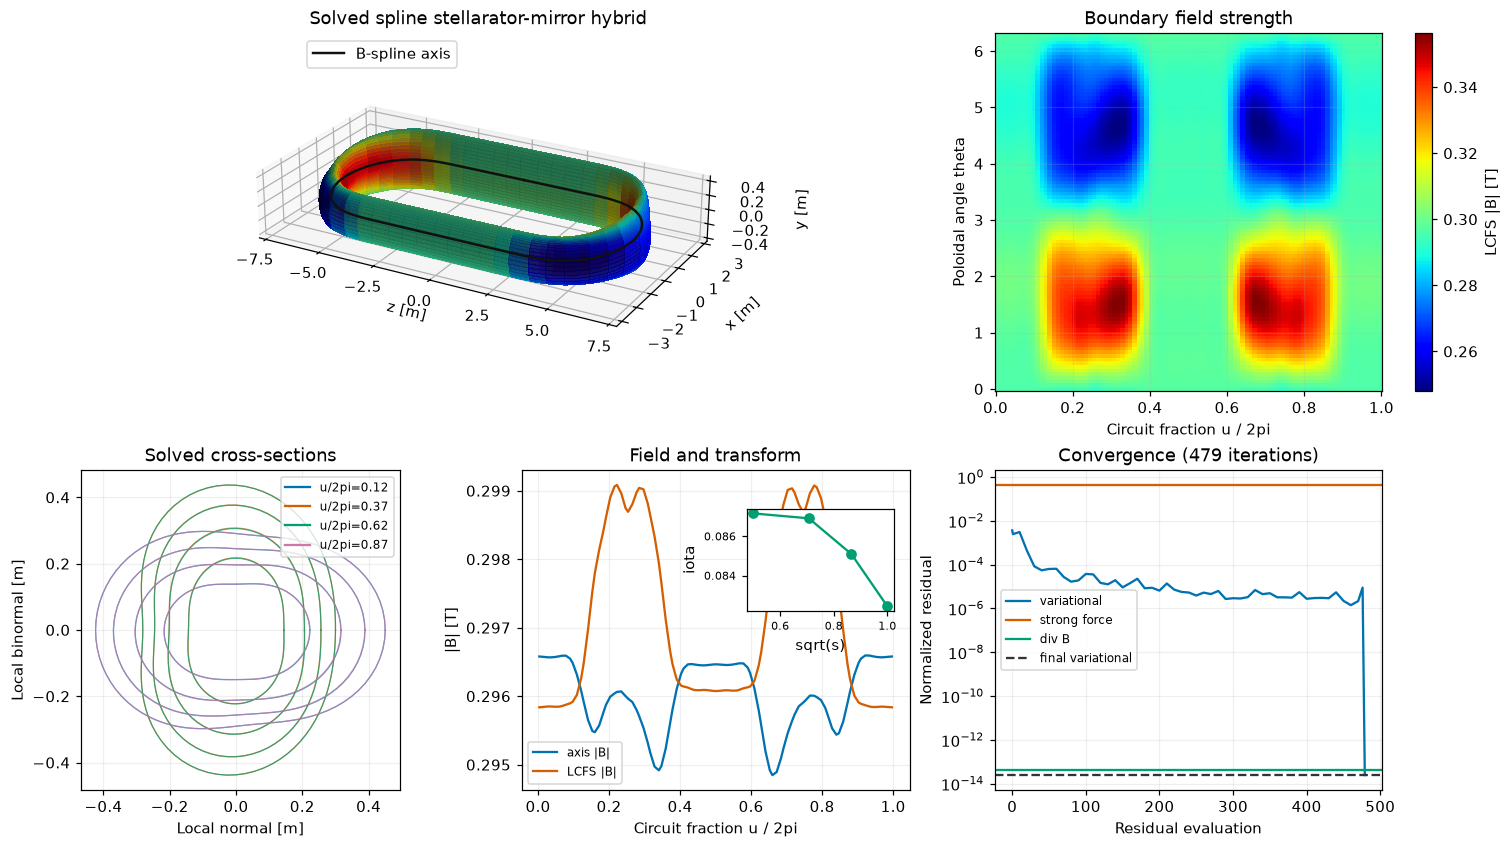
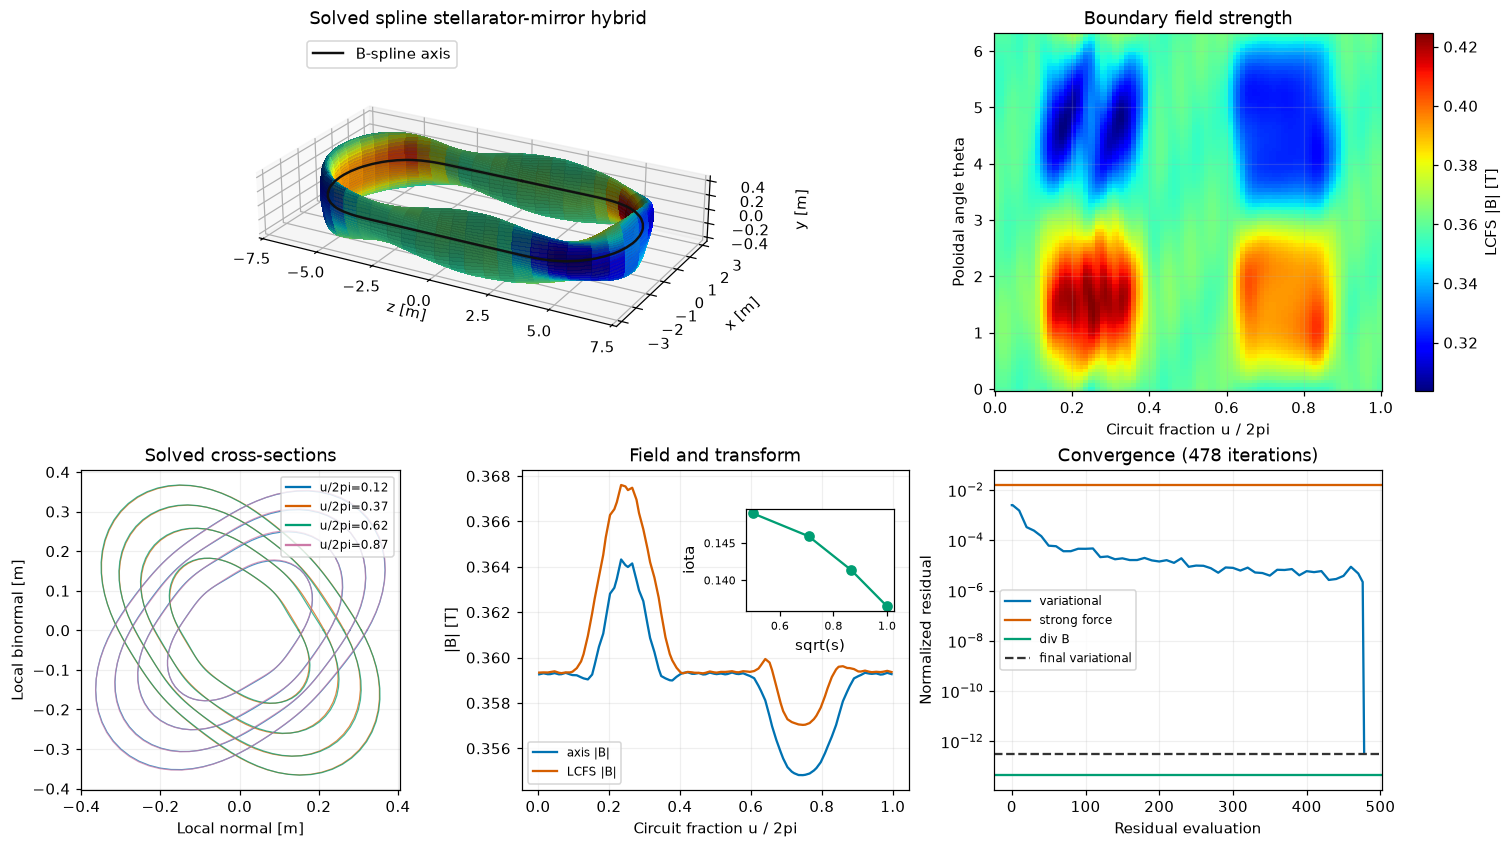
mirror: add toroidally rotating ellipse to stellarator-mirror hybrid (#56)
Add a section_turns parameter to build_stellarator_mirror_hybrid and
stellarator_mirror_section_coefficients that turns the elliptical
cross-section continuously around the closed circuit by that many full
2*pi turns, superposed on the return-only 90-degree rotation. The
integer turn count keeps the periodic section closing on itself exactly
(m=2 harmonic winds by 4*pi*section_turns) while the legs keep an
exactly straight axis. section_turns=0 (default) reproduces the prior
return-only geometry bit for bit.

Two turns lift the traced transform from the return-only iota=0.085 to
iota=0.141 at s=0.75. The rotation adds no standalone geometric
transform at the L/a~67 aspect ratio (with I'(s)=0 the traced iota stays
below 1e-3 for every section_turns); it amplifies the current-driven
transform by reshaping the metric.

Promotion: under the junction-freeze contract the toroidally rotating
hybrid converges at ftol on every 16/32/64 rung and passes the
minor-radius bulk gate (0.0445 -> 0.0056 -> 0.0046, monotone, below
0.05), but the device-normalized strong force still plateaus
(4.07 -> 0.51 -> 0.42) instead of heading to zero like the promoted
circular lane, so the near-axis representation defect persists and it
stays a research candidate. Docs, README, CHANGELOG, example, tests,
and the regenerated figure updated accordingly.

diff --git a/tests/mirror/test_splines.py b/tests/mirror/test_splines.py
@@ -192,6 +192,36 @@ def test_stellarator_mirror_ellipse_rotates_ninety_degrees_between_legs() -> Non
     np.testing.assert_allclose(leg_radii[minor_index], [0.30, 0.45], rtol=3.0e-3)
 
 
+def test_stellarator_mirror_toroidal_rotation_winds_ellipse_by_full_turns() -> None:
+    """``section_turns`` rotates the ellipse by that many full circuit turns.
+
+    The default reproduces the return-only rotation exactly. A nonzero
+    ``section_turns`` superposes a genuine rotating ellipse whose major axis
+    winds by that many ``2*pi`` turns around the circuit; the phase of the m=2
+    poloidal harmonic (which equals ``-2*alpha``) therefore advances by exactly
+    ``-4*pi*section_turns``, and the section stays positive and periodic.
+    """
+
+    basis = CubicBSplineBasis.periodic_uniform(64)
+    theta = jnp.linspace(0.0, 2.0 * jnp.pi, 64, endpoint=False)
+    default = stellarator_mirror_section_coefficients(basis, theta, semi_major=0.45, semi_minor=0.30)
+    explicit_zero = stellarator_mirror_section_coefficients(
+        basis, theta, semi_major=0.45, semi_minor=0.30, section_turns=0
+    )
+    np.testing.assert_array_equal(np.asarray(default), np.asarray(explicit_zero))
+
+    points = jnp.asarray(np.linspace(0.0, 2.0 * np.pi, 257))
+    for turns in (1, 2, 3):
+        coefficients = stellarator_mirror_section_coefficients(
+            basis, theta, semi_major=0.45, semi_minor=0.25, section_turns=turns
+        )
+        assert float(jnp.min(coefficients)) > 0.0
+        curve = np.asarray(basis.evaluate(coefficients, points, axis=-1))
+        second_harmonic = np.fft.fft(curve, axis=0)[2]
+        winding = np.unwrap(np.angle(second_harmonic))
+        np.testing.assert_allclose(winding[-1] - winding[0], -4.0 * np.pi * turns, atol=1.0e-6)
+
+
 def test_stellarator_mirror_builder_has_positive_nested_spline_geometry() -> None:
     resolution = MirrorResolution(ns=7, mpol=8, nxi=4)
     setup = build_stellarator_mirror_hybrid(resolution)
@@ -308,6 +338,52 @@ def test_stellarator_mirror_fixed_boundary_reaches_ftol() -> None:
     assert line.theta.shape == (513,)
     assert np.isfinite(float(line.iota))
     assert abs(float(line.iota)) > 1.0e-3
+
+
+@pytest.mark.full
+@pytest.mark.usefixtures("_module_jit_enabled")
+def test_stellarator_mirror_toroidal_rotation_raises_transform() -> None:
+    """A toroidally rotating ellipse solves and lifts iota above return-only.
+
+    Two full section turns amplify the current-driven transform from the
+    return-only ``iota=0.085`` to ``iota=0.141`` at ``s=0.75`` while the
+    equilibrium still reaches ftol with a divergence-free field.
+    """
+
+    resolution = MirrorResolution(ns=5, mpol=4, nxi=4)
+    config = MirrorConfig(resolution=resolution, ftol=1.0e-12, max_iterations=1000)
+    setup = build_stellarator_mirror_hybrid(
+        resolution,
+        coefficient_count=32,
+        straight_length=8.0,
+        return_radius=2.5,
+        semi_major=0.45,
+        semi_minor=0.25,
+        section_turns=2,
+        quadrature_order=3,
+    )
+    result = solve_spline_fixed_boundary(
+        setup.initial_state,
+        setup.boundary,
+        setup.discretization,
+        config,
+        axial_flux_derivative=0.02,
+        current_derivative=0.002,
+        solve_lambda=True,
+        axis=setup.axis,
+        require_convergence=True,
+    ).evaluated
+    assert result.converged
+    assert float(result.variational.maximum) <= config.ftol
+    assert float(result.normalized_divergence_rms) < 1.0e-12
+    assert not bool(result.energy.geometry.jacobian_sign_changed)
+    line = trace_closed_field_line(
+        result.energy.field,
+        setup.discretization,
+        radial_index=resolution.ns - 2,
+        turns=2,
+    )
+    assert abs(float(line.iota)) > 0.12
 
 
 _CIRCULAR_HYBRID = dict(

diff --git a/vmex/mirror/geometry.py b/vmex/mirror/geometry.py
@@ -168,22 +168,43 @@ def stellarator_mirror_section_coefficients(
     *,
     semi_major: float,
     semi_minor: float,
+    section_turns: int = 0,
 ) -> Array:
-    """Build ellipse radii that rotate 90 degrees only through the returns."""
+    """Build ellipse radii for a rotating-ellipse stellarator-mirror return.
+
+    The elliptical cross-section rotates smoothly by 90 degrees through each
+    curved return (the ``return_angle`` term below), which by itself returns the
+    ellipse to its original orientation once per circuit and produces only a
+    small transform. ``section_turns`` superposes a genuine rotating ellipse: the
+    major axis turns continuously with the circuit coordinate ``u`` by
+    ``section_turns`` full ``2*pi`` turns per period. Because the polar radius is
+    ``2*pi``-periodic in ``theta - alpha(u)`` and ``section_turns`` is an integer,
+    the section closes on itself exactly, and the leg axis stays straight while
+    the ellipse it carries keeps rotating. At the racetrack's large aspect ratio
+    the rotation adds little standalone geometric transform; it raises the
+    rotational transform mainly by reshaping the metric so a finite ``I'(s)``
+    current winds field lines faster (traced ``iota`` 0.085 -> 0.141 at
+    ``s=0.75`` for two turns).
+    """
 
     semi_major, semi_minor = float(semi_major), float(semi_minor)
     if semi_major <= 0.0 or semi_minor <= 0.0:
         raise ValueError("ellipse semiaxes must be positive")
+    section_turns = int(section_turns)
     theta = jnp.asarray(theta)
     if theta.ndim != 1:
         raise ValueError("theta must be one-dimensional")
     segment, fraction = _hybrid_segments(basis)
     fraction = jnp.asarray(fraction)
     transition = fraction**3 * (10.0 + fraction * (-15.0 + 6.0 * fraction))
-    angle = jnp.select(
+    return_angle = jnp.select(
         tuple(jnp.asarray(segment) == value for value in range(4)),
         (0.0, 0.5 * jnp.pi * transition, 0.5 * jnp.pi, 0.5 * jnp.pi * (1.0 - transition)),
     )
+    start, stop = basis.domain
+    circuit = np.mod(np.asarray(basis.collocation_nodes) - start, stop - start)
+    toroidal_angle = float(section_turns) * jnp.asarray(circuit)
+    angle = return_angle + toroidal_angle
     local_angle = theta[:, None] - angle[None]
     return semi_major * semi_minor / jnp.sqrt(
         (semi_minor * jnp.cos(local_angle)) ** 2

diff --git a/examples/stellarator_mirror_hybrid.py b/examples/stellarator_mirror_hybrid.py
@@ -22,13 +22,20 @@ from vmex.mirror import (
 )
 
 # Inputs: edit these values, then run this file directly.
-NS, MPOL = 5, 3
+NS, MPOL = 5, 4
 SPLINE_COEFFICIENTS = 32
 SPLINE_QUADRATURE_ORDER = 3
 STRAIGHT_LENGTH = 8.0
 RETURN_RADIUS = 2.5
 SEMI_MAJOR = 0.45
-SEMI_MINOR = 0.30
+SEMI_MINOR = 0.25
+# Turn the elliptical cross-section continuously around the closed circuit by
+# this many full 2*pi turns (a genuine rotating-ellipse section) on top of the
+# return-only 90-degree rotation. The legs keep an exactly straight axis; only
+# the ellipse they carry rotates. Two turns lifts the transform from the
+# return-only iota=0.085 to iota=0.141 at s=0.75 here. Set 0 for the legacy
+# return-only rotation.
+SECTION_TURNS = 2
 AXIAL_FLUX_DERIVATIVE = 0.02
 CURRENT_DERIVATIVE = 0.002
 FTOL = 1.0e-12
@@ -51,6 +58,7 @@ setup = build_stellarator_mirror_hybrid(
     return_radius=RETURN_RADIUS,
     semi_major=SEMI_MAJOR,
     semi_minor=SEMI_MINOR,
+    section_turns=SECTION_TURNS,
     axial_flux_derivative=AXIAL_FLUX_DERIVATIVE,
     quadrature_order=SPLINE_QUADRATURE_ORDER,
 )
@@ -87,6 +95,7 @@ summary = {
     "axis_length": float(setup.axis.arc_length),
     "axis_closure_error": float(setup.axis.closure_error),
     "frame_closure_error": float(setup.axis.frame_closure_error),
+    "section_turns": SECTION_TURNS,
     "iota_at_s_0p75": float(field_line.iota),
     "figure": str(figure),
 }

diff --git a/vmex/mirror/splines.py b/vmex/mirror/splines.py
@@ -348,10 +348,19 @@ def build_stellarator_mirror_hybrid(
     return_radius: float = 2.5,
     semi_major: float = 0.45,
     semi_minor: float = 0.30,
+    section_turns: int = 0,
     axial_flux_derivative: Array = 0.02,
     quadrature_order: int = 4,
 ) -> StellaratorMirrorSetup:
     """Build a closed two-leg mirror with rotating stellarator returns.
+
+    ``section_turns`` turns the elliptical cross-section continuously around the
+    closed circuit by that many full ``2*pi`` turns, superposed on the
+    return-only 90-degree rotation. The straight legs keep an exactly straight
+    axis; only the ellipse they carry rotates, so a nonzero ``section_turns``
+    raises the rotational transform (by amplifying the current-driven transform:
+    ``iota`` 0.085 -> 0.141 at ``s=0.75`` for two turns). The default ``0``
+    reproduces the legacy return-only rotation.
 
     ``axis_coefficient_count`` freezes the leg-return junction transition. The
     junction between an exactly straight leg (zero curvature) and a circular
@@ -400,6 +409,7 @@ def build_stellarator_mirror_hybrid(
         jnp.asarray(discretization.grid.theta),
         semi_major=semi_major,
         semi_minor=semi_minor,
+        section_turns=section_turns,
     )
     if source_basis is not basis:
         _, axis_coefficients = source_basis.refine_periodic_uniform(

diff --git a/docs/mirror_geometry.rst b/docs/mirror_geometry.rst
@@ -12,8 +12,11 @@ periodic hybrid has a complete fixed-boundary solve and example. Its
 circular-section lane is supported: with the leg-return junction frozen as a
 design parameter, its independent strong-force residual converges monotonically
 under same-geometry refinement. The rotating-elliptical-section hybrid remains
-the single research candidate, held back by a separately scoped near-axis
-representation defect in the rotating section rather than by the junction.
+the single research candidate. ``section_turns`` now turns the ellipse
+continuously around the closed circuit -- a genuine rotating-ellipse section --
+which raises the transform from the return-only ``iota=0.085`` to ``iota=0.141``
+at ``s=0.75``, but the separately scoped near-axis representation defect in the
+rotating section persists at the higher rotation, so it is not promoted.
 
 Quickstart
 ----------
@@ -286,8 +289,9 @@ The package currently includes:
   restart files,
 * a closed-surface Neumann solve on the lateral LCFS and both end disks,
 * component-wise nonlinear convergence checks at a requested ``ftol=1e-12``.
-* a periodic B-spline racetrack with two straight mirror legs, rotating
-  elliptical returns, a fixed-boundary solve, and closed field-line tracing.
+* a periodic B-spline racetrack with two straight mirror legs, a continuously
+  rotating elliptical section, a fixed-boundary solve, and closed field-line
+  tracing.
 
 With the compact-coil configuration (0.5 m loops, vacuum ``B(0) = 0.0836 T``,
 mirror ratio 4.58), a requested 50% beta continuation grows the central radius
@@ -350,12 +354,24 @@ The LCFS is an ellipse written as a polar radius,
    \frac{A B}{\sqrt{[B\cos(\theta-\alpha(u))]^2
                    +[A\sin(\theta-\alpha(u))]^2}}.
 
-The section angle :math:`\alpha` is constant on each straight leg and changes
-smoothly by 90 degrees through each return. The radial surfaces and stream
+The section angle is :math:`\alpha(u)=\alpha_{\mathrm{ret}}(u)+N\,u`. The
+return term :math:`\alpha_{\mathrm{ret}}` is constant on each straight leg and
+changes smoothly by 90 degrees through each return, so on its own it returns the
+ellipse to its original orientation once per circuit. The ``section_turns``
+integer :math:`N` superposes a genuine rotating ellipse: the major axis turns
+continuously by :math:`N` full :math:`2\pi` turns per circuit. Because the polar
+radius is :math:`2\pi`-periodic in :math:`\theta-\alpha` and :math:`N` is an
+integer, the section closes on itself exactly (verified by the m=2 harmonic
+winding by :math:`4\pi N`), and the straight-leg axis stays exactly straight
+while the ellipse it carries keeps rotating. The radial surfaces and stream
 function use the same periodic longitudinal basis. The divergence-free field
 is the open expression with :math:`\xi` replaced by :math:`u`; periodicity
 removes end cuts, and all longitudinal coefficients are active. A finite
-:math:`I'(s)` gives visible pitch and nonzero rotational transform.
+:math:`I'(s)` gives visible pitch and nonzero rotational transform; at the
+device aspect ratio :math:`L/a\approx 67` the rotating ellipse adds negligible
+transform on its own (with :math:`I'(s)=0` the traced :math:`\iota` stays below
+:math:`10^{-3}` for every ``section_turns``), so it acts by amplifying the
+current-driven transform rather than by a standalone geometric one.
 
 ``build_stellarator_mirror_hybrid`` constructs the discretization, closed
 axis, LCFS, and a vacuum-field initial stream function. The ordinary
@@ -396,27 +412,41 @@ residual in this section is quoted device- (arc-length-) normalized where noted
 about 67 minor radii, so the device numbers are roughly 67 times the
 minor-radius numbers.
 
-The rotating-elliptical-section hybrid remains the single research candidate.
-Its default ``ns=5``, ``mpol=3``, 32-control case reaches variational residual
-``2.36e-14`` and normalized ``div(B)=3.14e-14`` with axis closure ``8.88e-16``,
-and the solved finite-current state gives ``iota=0.0851`` at ``s=0.75``, but its
-reconstructed strong-force residual is ``0.430`` and does not converge even
-with the junction frozen: exact 16/32/64 spline transfer of one geometry gives
-a monotone but plateauing sequence ``0.5733 -> 0.3556 -> 0.3325`` at fixed
-volume (agreement ``5.0e-6`` relative, variational residual below ``6.7e-14``),
-and refining ``ns=5, mpol=3`` to ``ns=7, mpol=4`` at 64 controls only lowers it
-from ``0.333`` to ``0.227``. That plateau is a separately scoped near-axis
-representation defect in the rotating section, not a junction effect;
-finite-beta continuation and rotating-section sensitivity claims are deferred
-until it is resolved.
+The rotating-elliptical-section hybrid remains the single research candidate,
+now driven by the genuine toroidal rotation ``section_turns``. Its shipped
+``ns=5``, ``mpol=4``, 32-control case (``semi_major=0.45``, ``semi_minor=0.25``,
+``section_turns=2``) reaches variational residual ``3.19e-13`` and normalized
+``div(B)=4.55e-14`` with axis closure ``8.88e-16``, and the solved
+finite-current state gives ``iota=0.141`` at ``s=0.75`` -- roughly 1.7 times the
+return-only ``iota=0.085`` at the same imposed current. The transform is
+current-driven and amplified by the rotating geometry: with ``I'(s)=0`` the
+traced transform stays below ``10^{-3}`` for every ``section_turns``, so at
+``L/a`` near 67 the rotating ellipse adds no standalone geometric transform and
+instead reshapes the metric so the same current winds field lines faster.
 
-A sensitivity study localizes the rotating-section residual to the racetrack
-geometry rather than to pressure or imposed current. At the default 32-control
-resolution, removing current changes the strong force only from ``0.430`` to
-``0.424``; replacing the rotating ellipse by a circular section gives ``0.158``
-and a fixed ellipse ``0.164``, while the circular-axis/circular-section limit
-gives ``0.0083``. The periodic derivative algorithm is validated separately on
-the closed circular limit below.
+Under the junction-freeze contract the toroidally rotating hybrid converges at
+every rung, but the near-axis defect persists. With the junction frozen at 16
+controls and the section built at that base count, exact 16/32/64 refinement
+(``ns=5``, ``mpol=6``, ``section_turns=2``) drives the minor-radius bulk force
+``0.0445 -> 0.0056 -> 0.0046`` -- monotone, every rung below the ``0.05`` gate,
+so the operational promotion gate passes -- with each rung at variational
+residual below ``3.6e-13`` and normalized ``div(B)`` below ``1e-13``. The
+device- (arc-length-) normalized strong force, however, plateaus
+``4.07 -> 0.51 -> 0.42`` (per-step ratios ``7.97`` and ``1.21``): it does not
+head toward zero like the promoted circular lane (``0.204 -> 0.176 -> 0.118``),
+and its ``~0.42`` floor is even higher than the return-only ``~0.33``. That
+plateau is the same separately scoped near-axis representation defect in the
+rotating section, made no better by the faster rotation, so the toroidally
+rotating hybrid is kept a research candidate; finite-beta continuation and
+rotating-section sensitivity claims are deferred until it is resolved.
+
+A sensitivity study on the return-only baseline localizes the rotating-section
+residual to the racetrack geometry rather than to pressure or imposed current.
+At the 32-control resolution, removing current changes the return-only strong
+force only from ``0.430`` to ``0.424``; replacing the rotating ellipse by a
+circular section gives ``0.158`` and a fixed ellipse ``0.164``, while the
+circular-axis/circular-section limit gives ``0.0083``. The periodic derivative
+algorithm is validated separately on the closed circular limit below.
 
 Source ownership is compact: periodic basis/refinement is in ``basis.py``;
 axis, Bishop frame, and embedding are in ``geometry.py``; coefficient packing,

diff --git a/README.md b/README.md
@@ -536,12 +536,17 @@ keeps the plasma finite-β equilibrium visibly coupled to the coils.
 ### Stellarator–mirror hybrid
 
 A closed periodic hybrid joins two straight mirror legs to two curved
-stellarator returns on a rotation-minimizing B-spline axis, with a finite axial
-current giving `ι = 0.085`. Freezing the leg-return junction as an explicit
-design parameter makes the **circular-section lane supported** (its force gate
-converges under refinement); the **rotating-elliptical-section hybrid is a
-research candidate**, limited by a scoped near-axis representation issue. The
-same implicit API differentiates the periodic boundary and axis controls.
+stellarator returns on a rotation-minimizing B-spline axis. A `section_turns`
+parameter turns the elliptical cross-section continuously around the circuit (a
+genuine rotating-ellipse section) while the legs keep an exactly straight axis;
+two turns lift the transform from the return-only `ι = 0.085` to `ι = 0.141` at
+`s = 0.75`. Freezing the leg-return junction as an explicit design parameter
+makes the **circular-section lane supported** (its force gate converges under
+refinement); the **rotating-elliptical-section hybrid is a research candidate**
+— the toroidal rotation passes the minor-radius bulk gate but its
+device-normalized force still plateaus on the scoped near-axis representation
+issue. The same implicit API differentiates the periodic boundary and axis
+controls.
 
 ![Periodic B-spline stellarator–mirror hybrid: straight legs, rotating returns, B-spline axis, and boundary |B|](docs/_static/figures/stellarator_mirror_hybrid.png)
 

diff --git a/CHANGELOG.md b/CHANGELOG.md
@@ -18,6 +18,17 @@ follow [Semantic Versioning](https://semver.org/spec/v2.0.0.html) once past 1.0.
   the local B-spline reproduces the straight mirror cell to machine precision
   (~1e-12) once each leg is backed by enough collinear controls. See
   `docs/mirror_geometry.rst`.
+- **Toroidally rotating ellipse for the stellarator-mirror hybrid.** A new
+  `section_turns` parameter on `build_stellarator_mirror_hybrid` /
+  `stellarator_mirror_section_coefficients` turns the elliptical cross-section
+  continuously around the closed circuit by that many full turns, superposed on
+  the return-only 90-degree rotation, while the legs keep an exactly straight
+  axis. Two turns lift the traced transform from the return-only `iota=0.085` to
+  `iota=0.141` at `s=0.75`. The default `section_turns=0` reproduces the prior
+  return-only geometry exactly. The rotating-elliptical-section hybrid stays a
+  research candidate: the toroidal rotation passes the minor-radius bulk
+  promotion gate but its device-normalized strong force still plateaus on the
+  scoped near-axis representation defect.
 
 ## [0.2.0] — 2026-07-18
 
